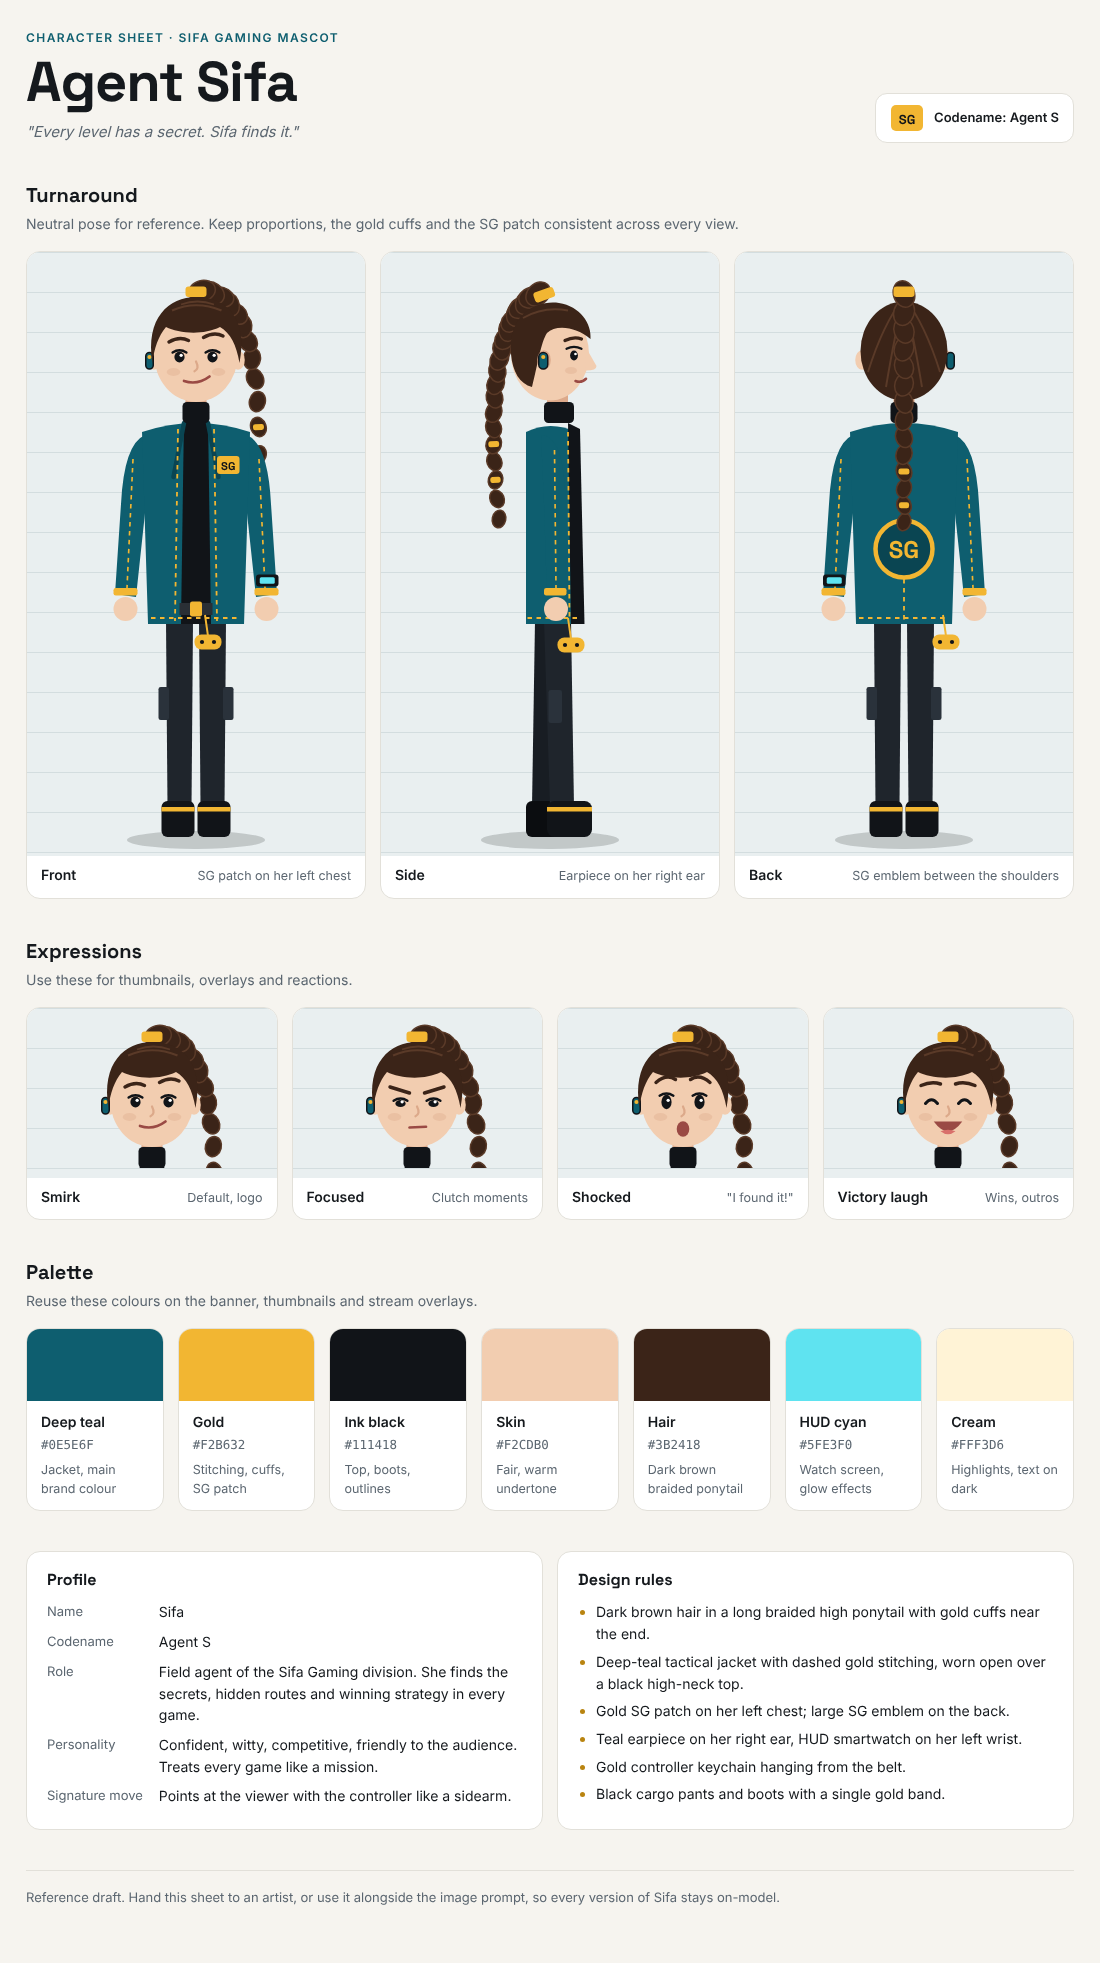
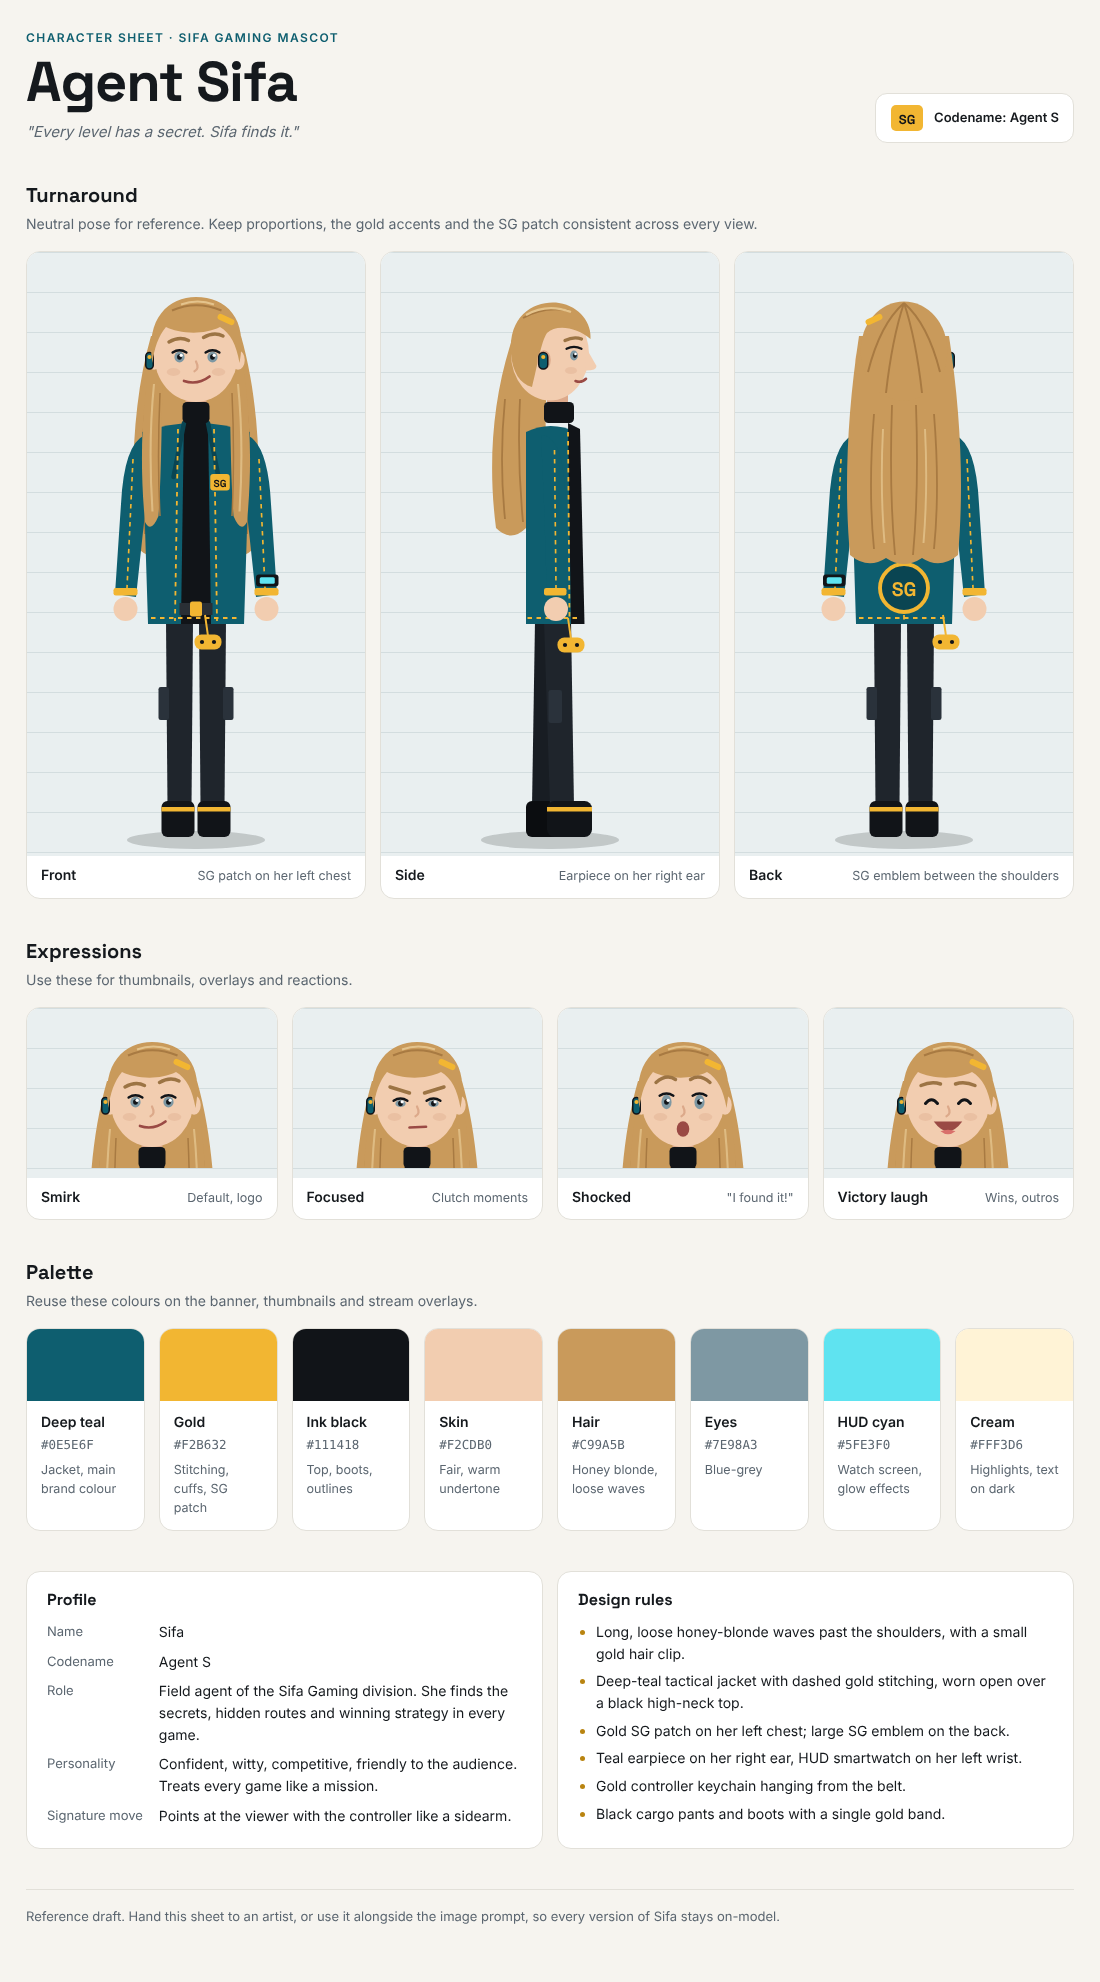
Restyle Agent Sifa with loose honey-blonde hair and blue-grey eyes
Replaces the braided ponytail with long loose waves and a gold hair clip,
adds blue-grey eyes, moves the SG patch and back emblem clear of the hair,
and updates the screenshot and the realistic image prompt.

Claude-Session: https://claude.ai/code/session_018MEY4BJjsZg4GYsa5KcAzo

diff --git a/sifa-gaming/agent-sifa-character-sheet.html b/sifa-gaming/agent-sifa-character-sheet.html
@@ -73,7 +73,7 @@
   .grid { display: grid; gap: 14px; }
   .turn { grid-template-columns: repeat(auto-fit, minmax(220px, 1fr)); }
   .expr { grid-template-columns: repeat(auto-fit, minmax(150px, 1fr)); }
-  .pal  { grid-template-columns: repeat(auto-fit, minmax(130px, 1fr)); }
+  .pal  { grid-template-columns: repeat(auto-fit, minmax(108px, 1fr)); }
   .two  { grid-template-columns: repeat(auto-fit, minmax(280px, 1fr)); }
 
   .card { background: var(--surface); border: 1px solid var(--border); border-radius: 14px; overflow: hidden; }
@@ -126,11 +126,11 @@
   </header>
 
   <h2>Turnaround</h2>
-  <p class="sub">Neutral pose for reference. Keep proportions, the gold cuffs and the SG patch consistent across every view.</p>
+  <p class="sub">Neutral pose for reference. Keep proportions, the gold accents and the SG patch consistent across every view.</p>
   <div class="grid turn">
     <div class="card"><div class="stage" id="front"></div><div class="label"><b>Front</b><span>SG patch on her left chest</span></div></div>
     <div class="card"><div class="stage" id="side"></div><div class="label"><b>Side</b><span>Earpiece on her right ear</span></div></div>
-    <div class="card"><div class="stage" id="back"></div><div class="label"><b>Back</b><span>SG emblem between the shoulders</span></div></div>
+    <div class="card"><div class="stage" id="back"></div><div class="label"><b>Back</b><span>SG emblem on the lower back</span></div></div>
   </div>
 
   <h2>Expressions</h2>
@@ -160,7 +160,7 @@
     <div class="card panel">
       <h3>Design rules</h3>
       <ul>
-        <li>Dark brown hair in a long braided high ponytail with gold cuffs near the end.</li>
+        <li>Long, loose honey-blonde waves past the shoulders, with a small gold hair clip.</li>
         <li>Deep-teal tactical jacket with dashed gold stitching, worn open over a black high-neck top.</li>
         <li>Gold SG patch on her left chest; large SG emblem on the back.</li>
         <li>Teal earpiece on her right ear, HUD smartwatch on her left wrist.</li>
@@ -177,7 +177,7 @@
 const C = {
   teal: '#0E5E6F', tealDark: '#0A4552', gold: '#F2B632', ink: '#111418',
   pants: '#1F252C', pantsBack: '#181D23', pocket: '#2A323B',
-  skin: '#F2CDB0', skinShade: '#DCA98A', hair: '#3B2418', hairLine: '#5A3A28',
+  skin: '#F2CDB0', skinShade: '#DCA98A', hair: '#C99A5B', hairLine: '#A87A42', hairLight: '#E4C38C', brow: '#9C7444', iris: '#7E98A3',
   cream: '#FFF3D6', hud: '#5FE3F0', mouth: '#9A4A44', tongue: '#D9706B'
 };
 
@@ -200,14 +200,27 @@ function braid(x0, y0, cx, cy, x1, y1, n) {
   return segs;
 }
 
+function hairBackFront() {
+  return `<path d="M70 58 C58 100 56 150 60 198 Q70 210 80 200 Q90 210 100 202 Q110 210 120 200 Q130 210 140 198 C144 150 142 100 130 58 Z" fill="${C.hair}"/>
+    <path d="M66 110 Q62 150 66 190 M134 110 Q138 150 134 190" stroke="${C.hairLine}" stroke-width="1.3" fill="none"/>`;
+}
+
+function hairFrontStrands() {
+  return `<path d="M71 66 C64 100 62 140 66 182 Q70 190 75 178 C77 150 77 112 78 80 Z" fill="${C.hair}"/>
+    <path d="M129 66 C136 100 138 140 134 182 Q130 190 125 178 C123 150 123 112 122 80 Z" fill="${C.hair}"/>
+    <path d="M72 90 Q68 130 71 175 M128 90 Q132 130 129 175" stroke="${C.hairLight}" stroke-width="1.4" fill="none" opacity=".8"/>
+    <path d="M76 96 Q74 140 76 178 M124 96 Q126 140 124 178" stroke="${C.hairLine}" stroke-width="1" fill="none"/>`;
+}
+
 function eye(x, y, ry) {
-  return `<ellipse cx="${x}" cy="${y}" rx="3.4" ry="${ry}" fill="${C.ink}"/>
+  return `<ellipse cx="${x}" cy="${y}" rx="3.4" ry="${ry}" fill="${C.iris}"/>
+    <ellipse cx="${x}" cy="${y}" rx="1.6" ry="${Math.min(ry, 1.8)}" fill="${C.ink}"/>
     <circle cx="${x + 1.1}" cy="${y - 1.1}" r="1.1" fill="#fff"/>
     <path d="M${x - 4.6} ${y - ry + 0.6} Q${x} ${y - ry - 2.4} ${x + 4.6} ${y - ry + 0.6}" stroke="${C.ink}" stroke-width="1.6" fill="none" stroke-linecap="round"/>`;
 }
 
 function face(expr) {
-  const brow = d => `<path d="${d}" stroke="${C.hair}" stroke-width="2.3" fill="none" stroke-linecap="round"/>`;
+  const brow = d => `<path d="${d}" stroke="${C.brow}" stroke-width="2.3" fill="none" stroke-linecap="round"/>`;
   const line = (d, w = 1.8) => `<path d="${d}" stroke="${C.mouth}" stroke-width="${w}" fill="none" stroke-linecap="round"/>`;
   let f = `<ellipse cx="85" cy="82" rx="4.5" ry="2.6" fill="${C.skinShade}" opacity=".35"/>
     <ellipse cx="115" cy="82" rx="4.5" ry="2.6" fill="${C.skinShade}" opacity=".35"/>
@@ -243,8 +256,8 @@ function headFront(expr) {
     <ellipse cx="100" cy="70" rx="28" ry="32" fill="${C.skin}"/>
     <path d="M71 76 C66 46 82 32 100 32 C120 32 135 46 129 76 C127 64 123 56 116 52 C104 58 88 56 80 52 C75 58 72 66 71 76 Z" fill="${C.hair}"/>
     <path d="M84 41 Q100 34 117 41" stroke="${C.hairLine}" stroke-width="1.4" fill="none"/>
-    <path d="M90 37 Q101 33 112 37" stroke="${C.hairLine}" stroke-width="1.2" fill="none"/>
-    <rect x="93" y="25" width="14" height="7" rx="2" fill="${C.gold}"/>
+    <path d="M90 37 Q101 33 112 37" stroke="${C.hairLight}" stroke-width="1.4" fill="none"/>
+    <rect x="114" y="45" width="12" height="4" rx="2" transform="rotate(25 120 47)" fill="${C.gold}"/>
     ${face(expr)}`;
 }
 
@@ -290,7 +303,7 @@ function ground() {
 function front(expr = 'smirk') {
   return `<svg viewBox="20 10 160 395" role="img" aria-label="Agent Sifa, front view">
     ${ground()}
-    ${braid(104, 28, 150, 30, 140, 180, 13)}
+    ${hairBackFront()}
     ${legsAndBoots()}
     ${arms(false)}
     <path d="M64 122 Q100 110 136 122 L132 250 L68 250 Z" fill="${C.teal}"/>
@@ -300,11 +313,12 @@ function front(expr = 'smirk') {
     <path d="M88 120 L86 248 M112 120 L114 248 M70 246 L130 246" stroke="${C.gold}" stroke-width="1.2" stroke-dasharray="3 3" fill="none"/>
     <rect x="89" y="236" width="22" height="8" fill="#2A2F35"/>
     <rect x="96" y="235" width="8" height="10" rx="1.5" fill="${C.gold}"/>
-    <rect x="114" y="138" width="15" height="12" rx="2" fill="${C.gold}"/>
-    <text x="121.5" y="147.5" text-anchor="middle" font-family="Space Grotesk, sans-serif" font-weight="700" font-size="7.5" fill="${C.ink}">SG</text>
+    <rect x="109.5" y="150" width="13" height="11" rx="2" fill="${C.gold}"/>
+    <text x="116" y="158.4" text-anchor="middle" font-family="Space Grotesk, sans-serif" font-weight="700" font-size="6.8" fill="${C.ink}">SG</text>
     ${keychain(106, 244)}
     <rect x="93" y="96" width="14" height="10" fill="${C.skinShade}"/>
     <rect x="91" y="102" width="18" height="14" rx="3" fill="${C.ink}"/>
+    ${hairFrontStrands()}
     ${headFront(expr)}
   </svg>`;
 }
@@ -312,7 +326,8 @@ function front(expr = 'smirk') {
 function side() {
   return `<svg viewBox="20 10 160 395" role="img" aria-label="Agent Sifa, side view">
     ${ground()}
-    ${braid(92, 30, 52, 50, 66, 180, 19)}
+    <path d="M80 46 C62 90 58 140 64 186 Q74 196 84 186 Q92 192 98 182 C98 150 96 116 98 90 Z" fill="${C.hair}"/>
+    <path d="M70 100 Q66 140 70 180 M80 100 Q78 140 82 182" stroke="${C.hairLine}" stroke-width="1.2" fill="none"/>
     <path d="M90 248 L106 248 L102 372 L88 372 Z" fill="${C.pantsBack}"/>
     <rect x="84" y="368" width="24" height="24" rx="4" fill="#0B0D10"/>
     <path d="M96 248 L114 248 L116 372 L100 372 Z" fill="${C.pants}"/>
@@ -336,11 +351,11 @@ function side() {
     <ellipse cx="96" cy="74" rx="4.5" ry="6.5" fill="${C.skinShade}"/>
     <rect x="92.5" y="69" width="6" height="11" rx="3" fill="${C.teal}" stroke="${C.ink}" stroke-width="1"/>
     <circle cx="95.5" cy="72" r="1.4" fill="${C.gold}"/>
-    <rect x="89" y="27" width="14" height="7" rx="2" transform="rotate(-20 96 30)" fill="${C.gold}"/>
-    <ellipse cx="116" cy="71" rx="2.6" ry="3.4" fill="${C.ink}"/>
+    <path d="M84 44 Q98 36 114 42" stroke="${C.hairLight}" stroke-width="1.4" fill="none"/>
+    <ellipse cx="116" cy="71" rx="2.6" ry="3.4" fill="${C.iris}"/><ellipse cx="116.6" cy="71" rx="1.3" ry="1.6" fill="${C.ink}"/>
     <circle cx="117" cy="70" r=".9" fill="#fff"/>
     <path d="M111 66.5 Q116 64 121 66.5" stroke="${C.ink}" stroke-width="1.5" fill="none" stroke-linecap="round"/>
-    <path d="M110 61 Q116 58 121 60" stroke="${C.hair}" stroke-width="2.2" fill="none" stroke-linecap="round"/>
+    <path d="M110 61 Q116 58 121 60" stroke="${C.brow}" stroke-width="2.2" fill="none" stroke-linecap="round"/>
     <path d="M117 88 Q121 89.5 124 86.5" stroke="${C.mouth}" stroke-width="1.7" fill="none" stroke-linecap="round"/>
     <ellipse cx="114" cy="81" rx="4" ry="2.4" fill="${C.skinShade}" opacity=".35"/>
   </svg>`;
@@ -353,28 +368,31 @@ function back() {
     ${arms(true)}
     <path d="M64 122 Q100 110 136 122 L132 250 L68 250 Z" fill="${C.teal}"/>
     <path d="M100 118 L100 248 M70 246 L130 246" stroke="${C.gold}" stroke-width="1.2" stroke-dasharray="3 3" fill="none"/>
-    <circle cx="100" cy="200" r="19" fill="${C.tealDark}" stroke="${C.gold}" stroke-width="3"/>
-    <text x="100" y="206" text-anchor="middle" font-family="Space Grotesk, sans-serif" font-weight="700" font-size="16" fill="${C.gold}">SG</text>
+    <circle cx="100" cy="226" r="16" fill="${C.tealDark}" stroke="${C.gold}" stroke-width="2.6"/>
+    <text x="100" y="231" text-anchor="middle" font-family="Space Grotesk, sans-serif" font-weight="700" font-size="13" fill="${C.gold}">SG</text>
     ${keychain(126, 244)}
     <rect x="93" y="96" width="14" height="10" fill="${C.skinShade}"/>
     <rect x="91" y="102" width="18" height="14" rx="3" fill="${C.ink}"/>
     <ellipse cx="72" cy="74" rx="4.5" ry="6.5" fill="${C.skin}"/>
     <ellipse cx="128" cy="74" rx="4.5" ry="6.5" fill="${C.skin}"/>
     <rect x="128.5" y="69" width="5" height="11" rx="2.5" fill="${C.teal}" stroke="${C.ink}" stroke-width="1"/>
+    <path d="M70 58 C62 110 60 160 64 204 Q76 214 88 206 Q100 214 112 206 Q124 214 136 204 C140 160 138 110 130 58 Z" fill="${C.hair}"/>
     <ellipse cx="100" cy="68" rx="29" ry="33" fill="${C.hair}"/>
-    <path d="M76 82 Q86 50 100 32 M124 82 Q114 50 100 32 M88 92 Q94 56 100 32 M112 92 Q106 56 100 32" stroke="${C.hairLine}" stroke-width="1.3" fill="none"/>
-    ${braid(100, 30, 100, 110, 100, 182, 13)}
-    <rect x="93" y="25" width="14" height="7" rx="2" fill="${C.gold}"/>
+    <path d="M76 82 Q84 50 100 36 M124 82 Q116 50 100 36 M88 96 Q92 60 100 36 M112 96 Q108 60 100 36" stroke="${C.hairLine}" stroke-width="1.3" fill="none"/>
+    <path d="M80 110 Q76 160 80 200 M92 104 Q90 160 94 204 M108 104 Q110 160 106 204 M120 110 Q124 160 120 200" stroke="${C.hairLine}" stroke-width="1.2" fill="none"/>
+    <path d="M86 120 Q84 160 87 196 M114 120 Q116 160 113 196" stroke="${C.hairLight}" stroke-width="1.3" fill="none" opacity=".8"/>
+    <rect x="74" y="45" width="12" height="4" rx="2" transform="rotate(-25 80 47)" fill="${C.gold}"/>
   </svg>`;
 }
 
 function portrait(expr, label) {
   return `<svg viewBox="50 16 100 100" role="img" aria-label="Agent Sifa, ${label}">
-    ${braid(104, 28, 150, 30, 140, 180, 13)}
+    ${hairBackFront()}
     <path d="M64 122 Q100 110 136 122 L136 130 L64 130 Z" fill="${C.teal}"/>
     <path d="M92 112 L108 112 L109 130 L91 130 Z" fill="${C.ink}"/>
     <rect x="93" y="96" width="14" height="10" fill="${C.skinShade}"/>
     <rect x="91" y="102" width="18" height="14" rx="3" fill="${C.ink}"/>
+    ${hairFrontStrands()}
     ${headFront(expr)}
   </svg>`;
 }
@@ -392,7 +410,8 @@ const swatches = [
   ['Gold', C.gold, 'Stitching, cuffs, SG patch'],
   ['Ink black', C.ink, 'Top, boots, outlines'],
   ['Skin', C.skin, 'Fair, warm undertone'],
-  ['Hair', C.hair, 'Dark brown braided ponytail'],
+  ['Hair', C.hair, 'Honey blonde, loose waves'],
+  ['Eyes', C.iris, 'Blue-grey'],
   ['HUD cyan', C.hud, 'Watch screen, glow effects'],
   ['Cream', C.cream, 'Highlights, text on dark'],
 ];

diff --git a/sifa-gaming/README.md b/sifa-gaming/README.md
@@ -9,7 +9,7 @@ Tagline: *"Every level has a secret. Sifa finds it."*
 
 ## Image prompt (realistic, for Nano Banana)
 
-> Photorealistic full-body portrait of a beautiful, confident young woman as "Agent Sifa", mascot of the YouTube gaming channel Sifa Gaming. Fair skin with a warm undertone and natural texture, light freckles, green-hazel eyes, long dark brown hair in a sleek braided high ponytail with gold cuffs near the end, soft natural makeup, playful confident smirk. She wears an open deep-teal tactical jacket with fine gold stitching over a black high-neck top, a small embroidered gold "SG" patch on her left chest, black cargo pants and black leather boots with a gold band. A teal wireless earpiece on her right ear, a smartwatch with a glowing cyan display on her left wrist, a small gold game-controller keychain on her belt. She holds a game controller in one hand and points at the camera with the other. Shot on an 85mm lens, cinematic studio lighting with teal and gold rim light, dark gaming-room background with soft neon bokeh, sharp focus, high detail, 4K.
+> Photorealistic full-body portrait of a beautiful, confident young woman as "Agent Sifa", mascot of the YouTube gaming channel Sifa Gaming. Fair skin with a warm undertone and natural texture, striking blue-grey eyes, long, loose, voluminous honey-blonde waves falling past her shoulders with a small gold hair clip, soft natural makeup with a rosy lip, a calm, confident gaze and a slight smile. She wears an open deep-teal tactical jacket with fine gold stitching over a black high-neck top, a small embroidered gold "SG" patch on her left chest, black cargo pants and black leather boots with a gold band. A teal wireless earpiece on her right ear, a smartwatch with a glowing cyan display on her left wrist, a small gold game-controller keychain on her belt. She holds a game controller in one hand and points at the camera with the other. Shot on an 85mm lens, cinematic studio lighting with teal and gold rim light, dark gaming-room background with soft neon bokeh, sharp focus, high detail, 4K.
 
 ## Palette
 
@@ -19,6 +19,7 @@ Tagline: *"Every level has a secret. Sifa finds it."*
 | Gold | `#F2B632` | Stitching, cuffs, SG patch |
 | Ink black | `#111418` | Top, boots, outlines |
 | Skin | `#F2CDB0` | Fair, warm undertone |
-| Hair | `#3B2418` | Dark brown braided ponytail |
+| Hair | `#C99A5B` | Honey blonde, loose waves |
+| Eyes | `#7E98A3` | Blue-grey |
 | HUD cyan | `#5FE3F0` | Watch screen, glow effects |
 | Cream | `#FFF3D6` | Highlights, text on dark |
